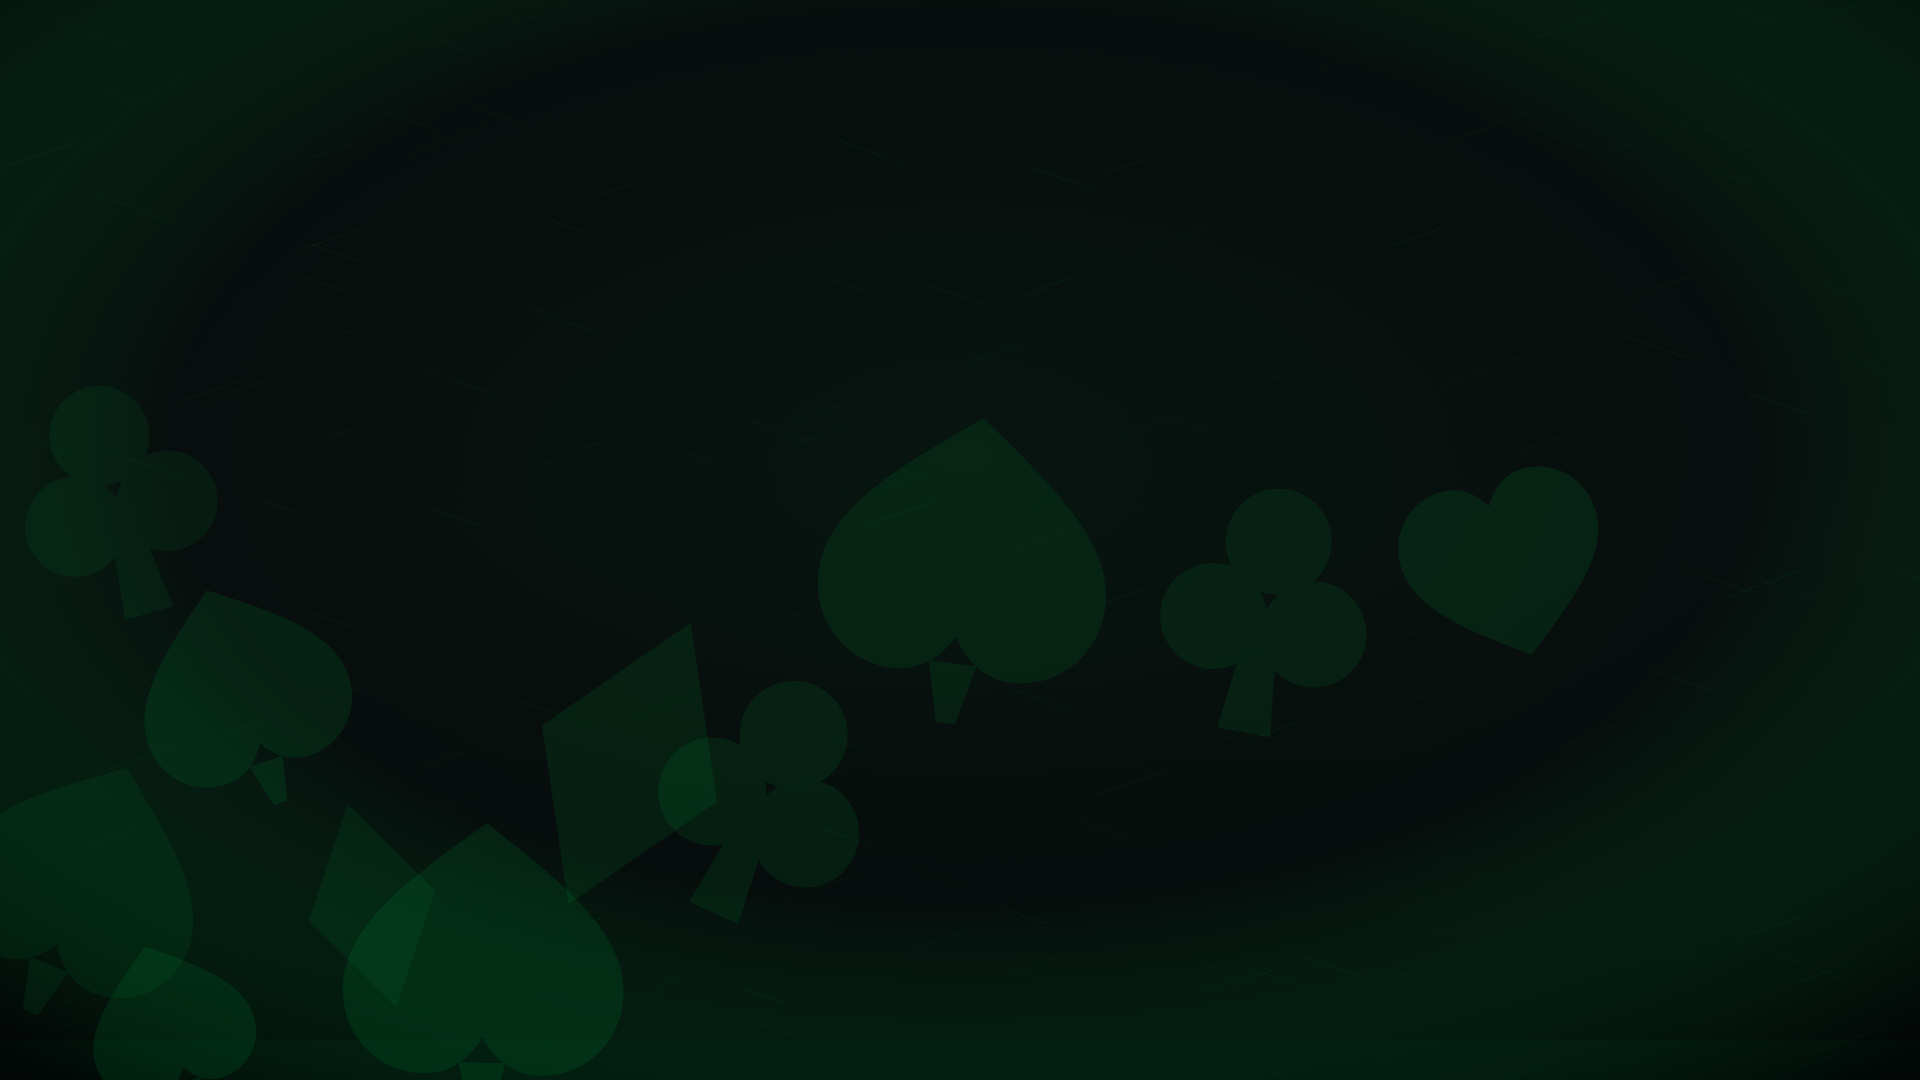
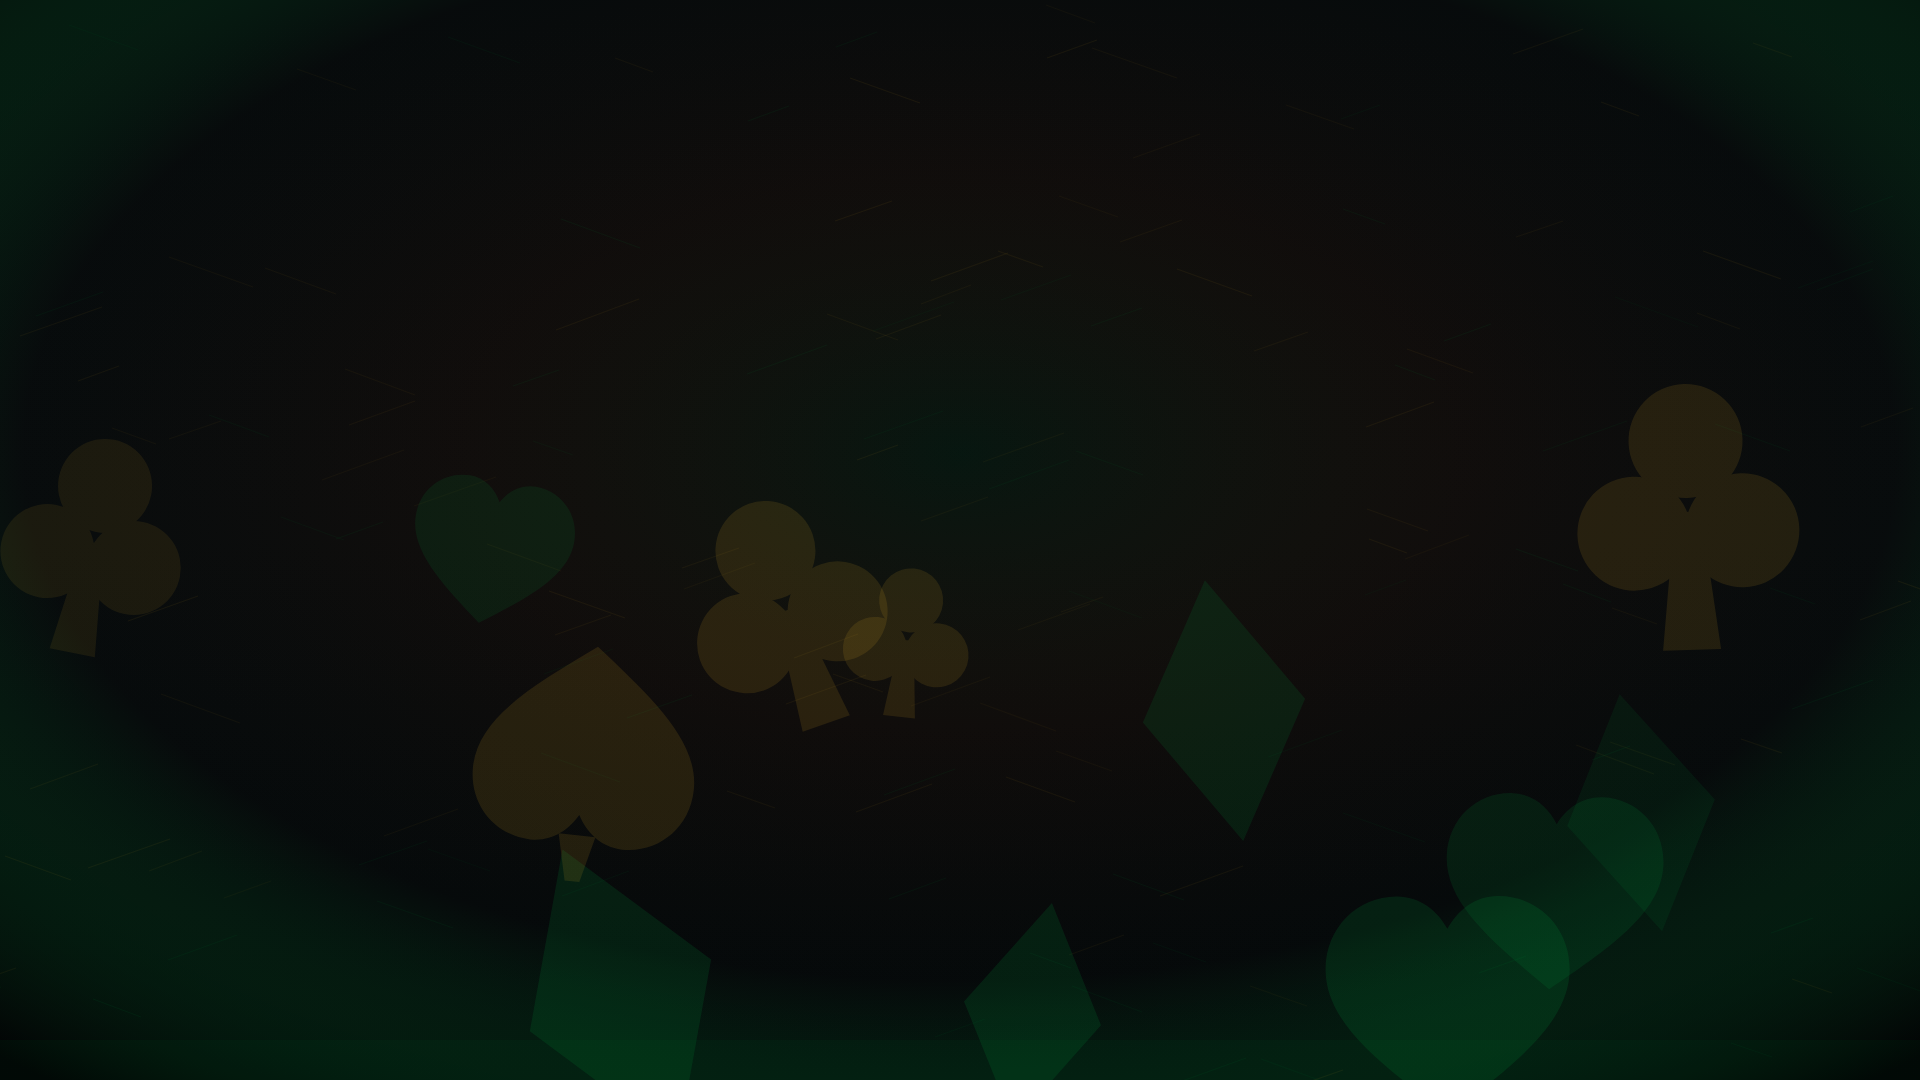
Ship v1.17: two-tone backgrounds + 3 selectable background styles
- Backgrounds now use both a vibe's primary AND accent color (red suits
  vs. gold/black suits, traditional card coloring) instead of a single
  flat hue - genuinely more colorful, still no white or glow.
- New: 3 selectable background styles from the table vibe picker - Felt
  Table (default), Smoke & Embers (small scattered colored sparks, not
  soft blooms), Chip Scatter (poker chip circles). Each follows whichever
  vibe color is active; persists via the same beforeInteractive
  theme-init script pattern as the custom-upload feature, so switching
  themes recomputes the right theme+style combination automatically.
- 15 new PNGs (3 styles x 5 themes), rasterized the same way as v1.14/
  v1.15 (throwaway Python script, not committed, headless-browser
  screenshot to PNG).

diff --git a/src/components/game/ThemePicker.tsx b/src/components/game/ThemePicker.tsx
@@ -11,17 +11,26 @@ import {
   DialogTrigger,
 } from "@/components/ui/dialog";
 import {
+  BG_STYLE_STORAGE_KEY,
+  BG_STYLES,
   CUSTOM_BG_MAX_BYTES,
   CUSTOM_BG_STORAGE_KEY,
+  DEFAULT_BG_STYLE_ID,
   DEFAULT_THEME_ID,
   THEME_PRESETS,
   THEME_STORAGE_KEY,
+  backgroundUrl,
 } from "@/lib/themePresets";
 import { cn } from "@/lib/utils";
 
 function readStoredTheme(): string {
   if (typeof window === "undefined") return DEFAULT_THEME_ID;
   return localStorage.getItem(THEME_STORAGE_KEY) ?? DEFAULT_THEME_ID;
+}
+
+function readStoredStyle(): string {
+  if (typeof window === "undefined") return DEFAULT_BG_STYLE_ID;
+  return localStorage.getItem(BG_STYLE_STORAGE_KEY) ?? DEFAULT_BG_STYLE_ID;
 }
 
 function hasCustomBg(): boolean {
@@ -32,6 +41,7 @@ function hasCustomBg(): boolean {
 export function ThemePicker() {
   const [open, setOpen] = useState(false);
   const [current, setCurrent] = useState(readStoredTheme);
+  const [style, setStyle] = useState(readStoredStyle);
   const [customBg, setCustomBg] = useState(hasCustomBg);
   const [uploadError, setUploadError] = useState<string | null>(null);
   const fileInputRef = useRef<HTMLInputElement>(null);
@@ -40,16 +50,33 @@ export function ThemePicker() {
     document.documentElement.dataset.theme = current;
   }, [current]);
 
+  function applyBackground(themeId: string, styleId: string) {
+    if (styleId === DEFAULT_BG_STYLE_ID) {
+      // Matches the CSS default per theme — let the stylesheet handle it.
+      document.documentElement.style.removeProperty("--bg-image");
+    } else {
+      document.documentElement.style.setProperty("--bg-image", `url("${backgroundUrl(themeId, styleId)}")`);
+    }
+  }
+
   function pick(id: string) {
     localStorage.setItem(THEME_STORAGE_KEY, id);
     setCurrent(id);
-    // A preset vibe should show that vibe's own background — drop any
-    // custom upload so it doesn't keep overriding --bg-image.
     if (customBg) {
       localStorage.removeItem(CUSTOM_BG_STORAGE_KEY);
-      document.documentElement.style.removeProperty("--bg-image");
       setCustomBg(false);
     }
+    applyBackground(id, style);
+  }
+
+  function pickStyle(id: string) {
+    localStorage.setItem(BG_STYLE_STORAGE_KEY, id);
+    setStyle(id);
+    if (customBg) {
+      localStorage.removeItem(CUSTOM_BG_STORAGE_KEY);
+      setCustomBg(false);
+    }
+    applyBackground(current, id);
   }
 
   function handleFile(e: React.ChangeEvent<HTMLInputElement>) {
@@ -89,9 +116,9 @@ export function ThemePicker() {
 
   function clearCustomBg() {
     localStorage.removeItem(CUSTOM_BG_STORAGE_KEY);
-    document.documentElement.style.removeProperty("--bg-image");
     setCustomBg(false);
     setUploadError(null);
+    applyBackground(current, style);
   }
 
   return (
@@ -129,6 +156,30 @@ export function ThemePicker() {
 
         <div className="mt-1 space-y-2 border-t border-border/60 pt-3">
           <p className="text-xs font-medium tracking-widest text-muted-foreground uppercase">
+            Background style
+          </p>
+          <div className="grid grid-cols-3 gap-2">
+            {BG_STYLES.map((s) => (
+              <button
+                key={s.id}
+                type="button"
+                onClick={() => pickStyle(s.id)}
+                className={cn(
+                  "flex flex-col items-center gap-1 rounded-lg border px-2 py-2 text-center transition-colors",
+                  style === s.id && !customBg
+                    ? "border-primary bg-primary/10"
+                    : "border-border hover:border-foreground/30",
+                )}
+              >
+                <span className="text-lg">{s.emoji}</span>
+                <span className="text-xs font-medium">{s.name}</span>
+              </button>
+            ))}
+          </div>
+        </div>
+
+        <div className="mt-1 space-y-2 border-t border-border/60 pt-3">
+          <p className="text-xs font-medium tracking-widest text-muted-foreground uppercase">
             Custom background
           </p>
           {customBg ? (
@@ -153,7 +204,7 @@ export function ThemePicker() {
           />
           {uploadError && <p className="text-xs text-destructive">{uploadError}</p>}
           <p className="text-xs text-muted-foreground">
-            Stays on this device only, under {Math.round(CUSTOM_BG_MAX_BYTES / 1_000_000)}MB. Pick a vibe above to go back to a built-in background.
+            Stays on this device only, under {Math.round(CUSTOM_BG_MAX_BYTES / 1_000_000)}MB. Pick a vibe or style above to go back to a built-in background.
           </p>
         </div>
       </DialogContent>

diff --git a/src/app/layout.tsx b/src/app/layout.tsx
@@ -2,7 +2,13 @@ import type { Metadata } from "next";
 import { Oswald, Geist_Mono, Butcherman } from "next/font/google";
 import Script from "next/script";
 import { TooltipProvider } from "@/components/ui/tooltip";
-import { THEME_STORAGE_KEY, CUSTOM_BG_STORAGE_KEY } from "@/lib/themePresets";
+import {
+  THEME_STORAGE_KEY,
+  CUSTOM_BG_STORAGE_KEY,
+  BG_STYLE_STORAGE_KEY,
+  DEFAULT_BG_STYLE_ID,
+  DEFAULT_THEME_ID,
+} from "@/lib/themePresets";
 import "./globals.css";
 
 const oswald = Oswald({
@@ -41,7 +47,13 @@ export default function RootLayout({ children }: LayoutProps<"/">) {
             var t=localStorage.getItem(${JSON.stringify(THEME_STORAGE_KEY)});
             if(t)document.documentElement.dataset.theme=t;
             var b=localStorage.getItem(${JSON.stringify(CUSTOM_BG_STORAGE_KEY)});
-            if(b)document.documentElement.style.setProperty("--bg-image","url(\\""+b+"\\")");
+            var s=localStorage.getItem(${JSON.stringify(BG_STYLE_STORAGE_KEY)});
+            if(b){
+              document.documentElement.style.setProperty("--bg-image","url(\\""+b+"\\")");
+            }else if(s&&s!==${JSON.stringify(DEFAULT_BG_STYLE_ID)}){
+              var themeId=t||${JSON.stringify(DEFAULT_THEME_ID)};
+              document.documentElement.style.setProperty("--bg-image","url(\\"/backgrounds/bg-"+themeId+"-"+s+".png\\")");
+            }
           }catch(e){}`}
         </Script>
         <TooltipProvider delayDuration={150}>{children}</TooltipProvider>

diff --git a/src/lib/themePresets.ts b/src/lib/themePresets.ts
@@ -18,3 +18,24 @@ export const CUSTOM_BG_STORAGE_KEY = "chamber-seven:custom-bg";
 /** Roughly caps the base64-encoded data URL well under typical per-origin
  * localStorage quotas (~5MB), leaving headroom for everything else stored there. */
 export const CUSTOM_BG_MAX_BYTES = 3_000_000;
+
+export interface BgStyle {
+  id: string;
+  name: string;
+  emoji: string;
+}
+
+/** Alternate built-in background compositions, each rendered per theme as
+ * `bg-<themeId>.png` (default style, "felt") or `bg-<themeId>-<styleId>.png`. */
+export const BG_STYLES: BgStyle[] = [
+  { id: "felt", name: "Felt Table", emoji: "🃏" },
+  { id: "embers", name: "Smoke & Embers", emoji: "✨" },
+  { id: "chips", name: "Chip Scatter", emoji: "🔴" },
+];
+export const DEFAULT_BG_STYLE_ID = "felt";
+export const BG_STYLE_STORAGE_KEY = "chamber-seven:bg-style";
+
+export function backgroundUrl(themeId: string, styleId: string): string {
+  const suffix = styleId === DEFAULT_BG_STYLE_ID ? "" : `-${styleId}`;
+  return `/backgrounds/bg-${themeId}${suffix}.png`;
+}

diff --git a/src/lib/changelog.ts b/src/lib/changelog.ts
@@ -7,6 +7,15 @@ export interface ChangelogEntry {
 
 export const CHANGELOG: ChangelogEntry[] = [
   {
+    version: "1.17",
+    date: "2026-08-06",
+    title: "Two-tone backgrounds + 3 selectable styles",
+    changes: [
+      "Backgrounds now use both of a table vibe's colors, not just one — red/gold hearts and clubs instead of a single flat hue. Noticeably more colorful, still zero white or glow.",
+      "New: pick a background style from the table vibe picker (🎨) — Felt Table, Smoke & Embers (scattered colored sparks), or Chip Scatter (poker chips). Each one follows whichever vibe color you've picked.",
+    ],
+  },
+  {
     version: "1.16",
     date: "2026-08-06",
     title: "Fixed the off-center subtitle on the landing page",
